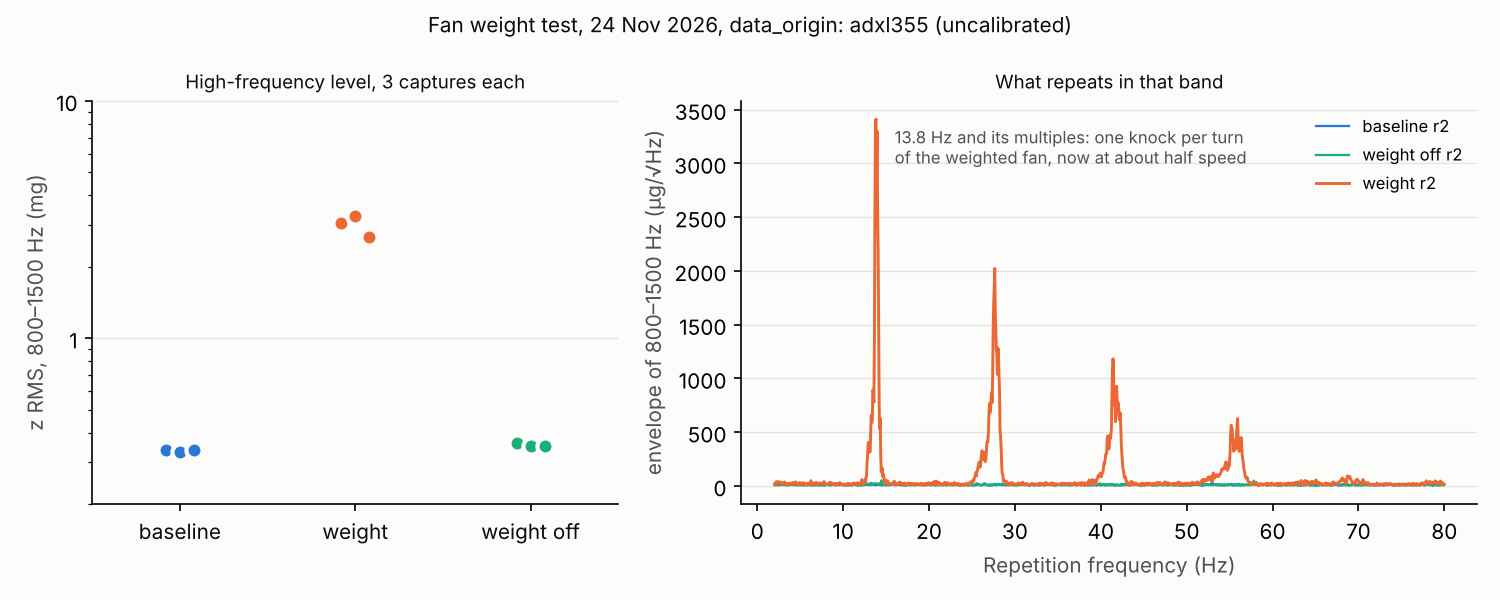
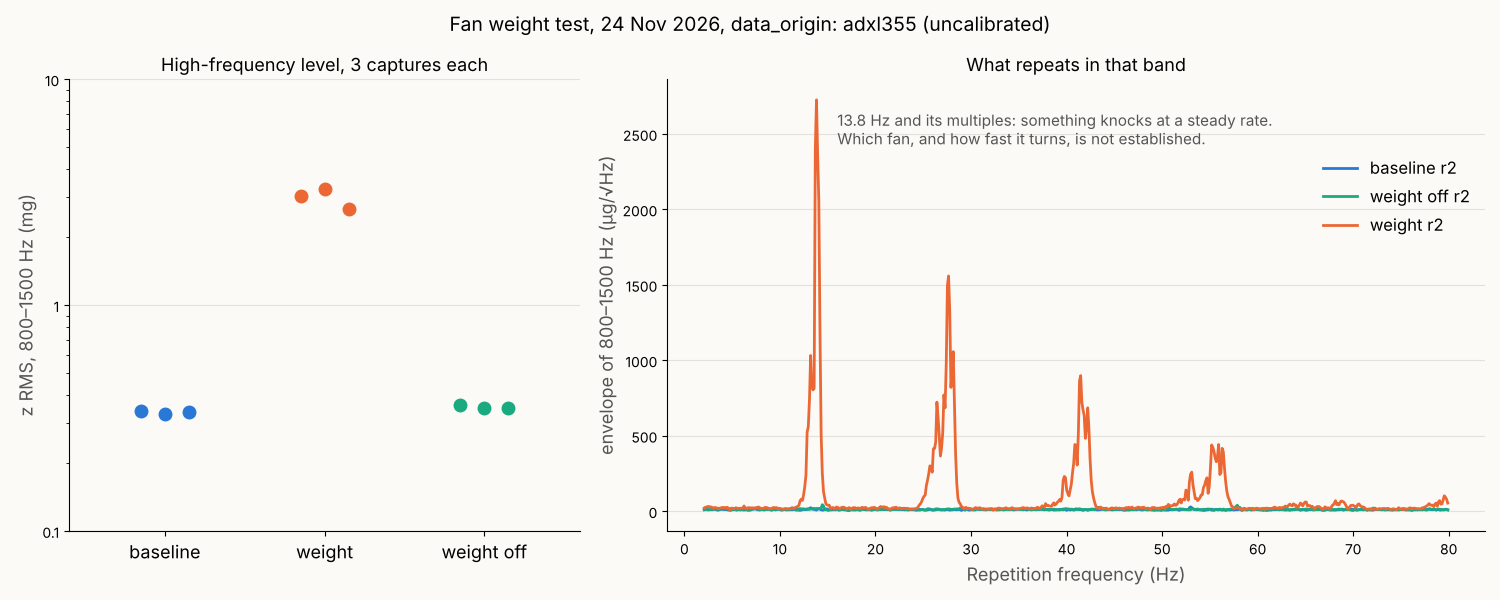
Weight test: two fans were weighted; correct the half-speed claim
Rami's 07:36 photo shows weights on two fans, with the bottom cover off.
Rechecking all 9 captures: the 13.8 Hz and ~125 Hz lines cited as
evidence of a slowed fan were already present before the weight, so the
knock rate is no longer presented as a fan speed. Knocks, 800-1500 Hz
level and kurtosis findings are unchanged. Figure annotation corrected.

Claude-Session: https://claude.ai/code/session_019qsZuWZqEo4J9LPznK46sR

diff --git a/docs/PHASE1_WEIGHT_TEST_2026-11-24.md b/docs/PHASE1_WEIGHT_TEST_2026-11-24.md
@@ -3,8 +3,10 @@
 **Data origin:** `adxl355`. Real measurements from the product sensor (EVAL-ADXL355-PMDZ on the ESP32-S3, 4,009.5 Hz, ±2 g, uncalibrated: values in g good to about ±8 %). The test object is the Havit USB laptop cooling pad, **not an industrial machine**. This is one deliberate change on one pad; it is not evidence of fault detection on machines or of predictive maintenance.
 
 **Raw data:** `data/measured/adxl355/raw/20261124-07*_adxl355_{baseline,weight,baseline-after}_board-beside_r{1,2,3}.csv` (9 files), captured by Rami 07:11–07:44 America/Toronto.
-**Analysis:** by Claude in a Linux cloud container with SciPy: band RMS from Welch spectra (65,536 points), and the envelope (Hilbert transform) of the 800–1500 Hz band to see what repeats in it.
-**Setup:** same as `docs/PHASE1_FAN_RESULTS_2026-11-23.md` (sensor taped on the bamboo board about 1 cm from the pad, mount tag `board-beside`). Weight: to be recorded (which fan, what material).
+**Analysis:** by Claude in a Linux cloud container with SciPy: band RMS from Welch spectra (65,536 points); the 800–1500 Hz level and kurtosis from a 4th-order band-pass filter with the first 0.5 s skipped; and the envelope (Hilbert transform) of the 800–1500 Hz band to see what repeats in it.
+**Setup:** same as `docs/PHASE1_FAN_RESULTS_2026-11-23.md` (sensor taped on the bamboo board about 1 cm from the pad, mount tag `board-beside`). Weight (from Rami's photo taken 07:36, between the last weighted capture and the removal): **two fans were weighted, not one.** The pad's bottom cover is off, and the left and right fans (as seen in the photo) each carry a small clear plastic bag, with something inside, tucked at one blade. Contents, and whether the cover was off for all 9 captures, to be recorded.
+
+![weights at 07:36](img/weight_test_setup_2026-11-24_0736.jpg)
 
 ## Plan and criterion (written before the data was seen)
 
@@ -16,8 +18,8 @@ Baseline ×3, weight on one blade tip of one fan ×3, weight removed ×3, 30 s e
 | --- | --- |
 | Clean data? | **Yes.** 0 missing sets, 0 CRC errors, 0 overruns, 0 dropped words, 0 SPI errors in all 9 captures. 22.1–22.7 °C. |
 | Did the weight change the vibration? | **Yes, strongly, in all 3 weighted captures**, and it went back to normal when the weight was removed. |
-| Was it the expected imbalance signature (a bigger 1× line at normal speed)? | **No.** The weighted fan dropped to about **half speed** (13.5–13.8 Hz in r1–r2, 11.7 Hz in r3, normal is 23–28 Hz) and **knocked once per turn**. That is a rub or a braked fan, not a pure imbalance. |
-| Does it pass the criterion? | **Yes**: the weighted fan's lines moved to a new speed, and its once-per-turn knocks appear in all 3 weighted captures and in none of the 6 others. The features that showed it (below) were chosen after looking at the data, so they need confirming on a fresh run. |
+| Was it the expected imbalance signature (a bigger 1× line at normal speed)? | **No.** The high-frequency band **knocked at a steady rate**: 13.7–13.8 times a second in r1–r2 and 11.75 in r3. That looks like a rub (a bag touching the frame), not a pure imbalance. Which fan knocked, and at what speed it turned, is **not established** (see the correction below). |
+| Does it pass the criterion? | **Yes**: the knocks appear in all 3 weighted captures and in none of the 6 others. The features that showed it (below) were chosen after looking at the data, so they need confirming on a fresh run. |
 
 ## What changed
 
@@ -32,16 +34,23 @@ Baseline ×3, weight on one blade tip of one fan ×3, weight removed ×3, 30 s e
 
 x and y show the same: 800–1500 Hz rises 5–6× (x) and 12–18× (y) with the weight and returns to baseline without it.
 
-- **Speed of the weighted fan:** the knock rate equals a new spectral line at the same frequency (13.8 Hz, 150–310 µg/√Hz on z) and a line at 9× it (121–124 Hz in r1–r2, 104.7 Hz in r3): a fan turning at 13.5–13.8 then 11.7 turns per second. It slowed further between r2 and r3, which suggests it was rubbing harder, not settling.
+- **Correction (24 Nov, 08:00): the knock rate is not shown to be a fan's speed.** The first version of this note said the knock rate matched a *new* spectral line at 13.8 Hz and a line at 9× it, so one fan had slowed to half speed. Rechecked on all 9 captures, both lines were already there before the weight:
+
+  | Line (strongest axis) | Baseline r1–r3 | Weight r1–r3 | Weight off r1–r3 |
+  | --- | --- | --- | --- |
+  | 13–15 Hz, y | 13.9 Hz, 1.9–2.1 mg/√Hz | 13.6–14.0 Hz, 1.1–2.3 mg/√Hz | 14.5 Hz, 1.4 mg/√Hz |
+  | 118–128 Hz, z | 125 Hz, 0.27–0.31 mg/√Hz | 122–128 Hz, 0.28–0.49 mg/√Hz | 124–126 Hz, 0.04–0.05 mg/√Hz |
+
+  The 13–15 Hz y line also appears in the 23 November fans-on captures (12.6–13.8 Hz, rising as the fans warm) and not with the fans off, so it comes from the fans, but what it is (a slow fan, or a half-order line of a normal one) is open. What stays: the knocks themselves are new and repeat at 13.7, 13.8 and 11.75 Hz with multiples (envelope, 0.12 Hz resolution), in r3 clearly away from the 13.6 Hz line. In r1–r2 the x and z envelopes also show a weaker second rate (12.9–13.2 Hz), which would fit two weighted fans, but that is not proven.
 - **Normal-speed 1× lines:** the 22–28 Hz band is unchanged on all axes (0.03–0.09 mg in every capture).
 - **Fixed bands around the fan lines are not reliable on their own:** baseline and baseline-after differ by up to 5× in some bands (z 135–185 Hz: 3.6–4.1 mg vs 0.73–0.75 mg) because the fans' speeds and line positions differ between the two (as seen in the warm-up run). The 800–1500 Hz level, its kurtosis and its envelope stayed within 10 % between baseline and baseline-after.
 
 ## What this means
 
-- The ADXL355 setup detects a **rubbing or braked fan** easily and repeatably, and shows which speed it runs at. That is a real fault type on machines (rub), but this test used one pad, one weight and one session.
-- **Imbalance (1× at normal speed) is still untested**: the weight was large enough, or placed so, that it slowed the fan and made it knock. A pure imbalance test needs a smaller weight that does not touch anything and does not change the fan's sound or speed.
+- The ADXL355 setup detects a **rubbing or braked fan** easily and repeatably. That is a real fault type on machines (rub), but this test used one pad, two weights placed at once, and one session.
+- **Imbalance (1× at normal speed) is still untested**: the weights were large enough, or placed so, that something knocked. A pure imbalance test needs a smaller weight that does not touch anything and does not change the fan's sound or speed.
 - Features that worked here: high-frequency RMS, kurtosis, and the envelope's repetition rate. Features that need care: fixed frequency bands near the fan lines (they move with fan speed).
 
 ## Suggested next test (not done)
 
-Same A-B-A plan with a much smaller weight (a single small piece of tape, folded once), checked by eye and ear to spin freely at normal speed. Before the data: the new run passes if the weighted fan's 1× line at its normal speed grows more than its baseline vs baseline-after spread, with the high-frequency level unchanged (no rub).
+Same A-B-A plan with **one** fan weighted, cover on as in normal use, and a much smaller weight (a single small piece of tape, folded once), checked by eye and ear to spin freely at normal speed. Before the data: the new run passes if the weighted fan's 1× line at its normal speed grows more than its baseline vs baseline-after spread, with the high-frequency level unchanged (no rub).
